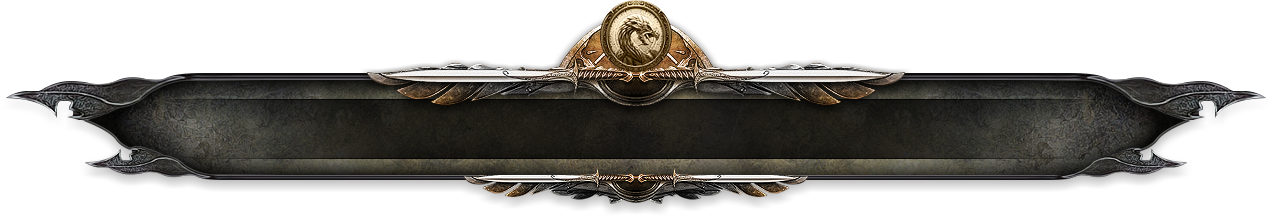
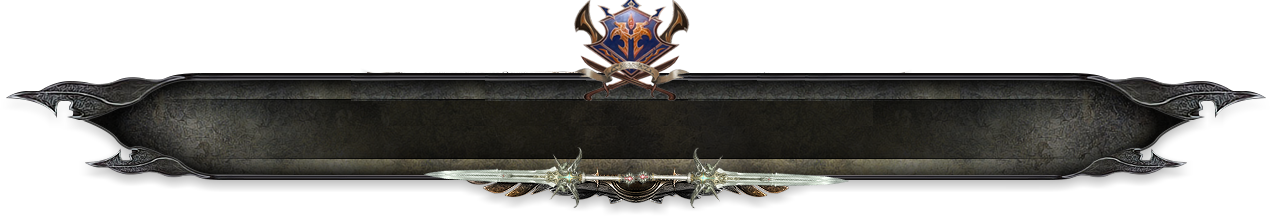
front end
modificado menu
imagen del top y footer

Changed region(s): [[0.2764, 0.0, 0.737, 0.5], [0.3378, 0.7222, 0.6756, 0.9167], [0.522, 0.7222, 0.5528, 0.75]]

diff --git a/public_html/skin/monster/css/global.css b/public_html/skin/monster/css/global.css
@@ -1,7 +1,7 @@
 body, html, .all { margin: -10; padding: 0; } body, a, a:active, a:visited, a:link { font-family: Arial; font-size: 13px; text-decoration: none; } a, a:active, a:visited, a:link { cursor: pointer; font-weight: bold; } p { margin: 0; padding: 0; } .pddInner { padding: 0 20px; } p.cbold { font-weight: bold; text-align: center; width: 100%; padding: 10px 0; text-transform: uppercase; } .rmsg { display: table; width: 360px; margin: 0 auto 20px auto; padding: 10px; background: #108c00; border-radius: 5px; text-align: center; color: #fff; font-size: 14px; } .rmsg.error { background-color: #b30000 !important; } .rmsg.warn { background-color: #fffca1 !important; color: #000 !important; } #alerta { visibility: hidden; position: fixed; display: table; z-index: 1001; margin: 0 auto; padding: 25px 30px; color: #5a5a5a; font-size: 15px; background: #f7f7f7; border-radius: 6px; } #alerta .ok { display: table; width: 100%; } #alerta .ok > div { font-size: 12px; font-weight: bold; cursor: pointer; display: table; float: right; margin: 15px 0 0 0; padding: 5px 0; text-align: center; width: 60px; text-transform: uppercase; color: #fff; background: #ac0f0f; border: 1px solid #ac0f0f; box-shadow: 0 1px 0 rgba(255,255,255,0.2) inset; border-radius: 4px; } #alerta .ok > div:hover { background: #d21818; border-color: #d21818; } #alerta .ok.sucesso > div { background: #0dbb00; border: 1px solid #0dbb00; } #alerta .ok.sucesso > div:hover { background: #0a8c00; border: 1px solid #0a8c00; } #backblack { height: 100%; width: 100%; position: fixed; top: 0; left: 0; background: #000; opacity: 0.8; z-index: 1000; } input.default.sucesso { background: #0dbb00 !important; border-color: #0dbb00 !important; color: #fff !important; }
 body, html, .all { min-width: 1200px; }
 body, html { min-height: 1800px; }
-body { background: url('../imgs/bg-top.jpg') no-repeat center top, url('../imgs/bg-bot-part.png') no-repeat center bottom, url('../imgs/bg-bot.jpg') no-repeat center bottom, url('../imgs/bg-repeat.jpg') repeat-y center 912px; background-color: #161915; color: #000; }
+body { background: url('../imgs/bg-top.jpg') no-repeat center top,  url('../imgs/bg-bot.jpg') no-repeat center bottom, url('../imgs/bg-repeat.jpg') repeat-y center 912px; background-color: #161915; color: #000; }
 a, a:active, a:visited, a:link { color: #f0d69e; }
 a:hover { color: #fffbca; }
 a:active { color: #fff; }

diff --git a/resources/views/lineage/admin/shop/ver.blade.php b/resources/views/lineage/admin/shop/ver.blade.php
@@ -74,7 +74,7 @@
         <table id="example2" class="table table-hover table-dark donateBox">
   <thead>
     <th><i class="fa fa-user"></i> Personaje</th>
-    <th style="text-align: center;"><i class="fa fa-dollar"></i> Valor total</th>
+    <th style="text-align: center;"><i class=""></i> Valor total</th>
     <th><i class=""></i></th>
     
   </thead>
@@ -91,7 +91,7 @@
     </td>
 
     <td style="text-align: center;">
-        <h1><span style="color:#237200"><b><span id="valor_symbol">$</span> <span id="valor_total">0,00</span></b></span></h1>
+        <h1><span style="color:#237200"><b><span id="valor_symbol"><img src="storage/icono admin/coins.svg" alt="" width="20"  height="20"></span> <span id="valor_total">0,00</span></b></span></h1>
 
         <input type="text" name="total" hidden class="valor_total"   value="">
         <input type="text" name="bonus" hidden class="bonuss"   value="">

diff --git a/resources/views/lineage/admin/post/index.blade.php b/resources/views/lineage/admin/post/index.blade.php
@@ -72,8 +72,6 @@
 <button type="button" class="btn btn-warning" data-toggle="modal" data-target="#ver-{{ $post->id }}"><i class="fa fa-expand"> Ver</i></button>
 
 
-
-
 <a class="btn btn-success btn-lg fa fa-edit" data-toggle="modal" data-target="#edit-{{ $post->id }}"></a>
 
 <a class="btn btn-primary btn-lg fa fa-globe" href="{!! URL::to('blogdetail-post'.$post->id) !!}"></a>

diff --git a/app/Http/Controllers/ComboController.php b/app/Http/Controllers/ComboController.php
@@ -443,7 +443,6 @@ class ComboController extends AdminBaseController
          ->where('item_id','=',$item)->first();
 
            //los creo siempre ya que son armor wepons y rings
-            
              DB::connection('externa')->table('items')->insert(
                 ['owner_id' => $request['destinatario'], 
                 'item_id' => $item,
